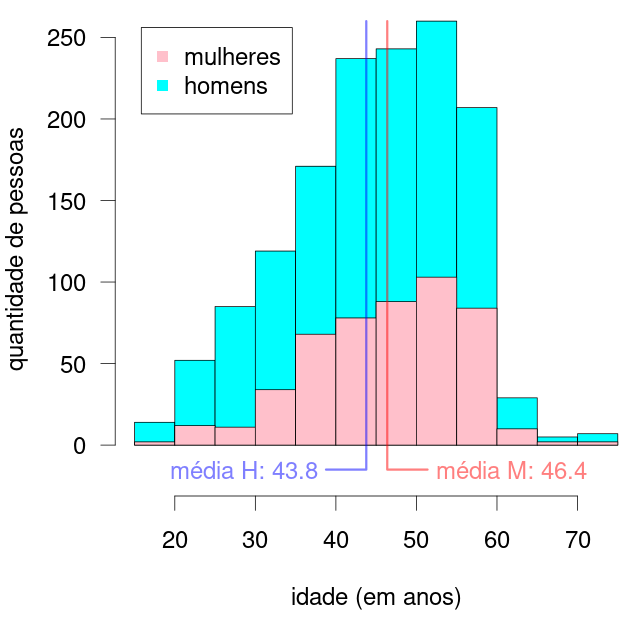
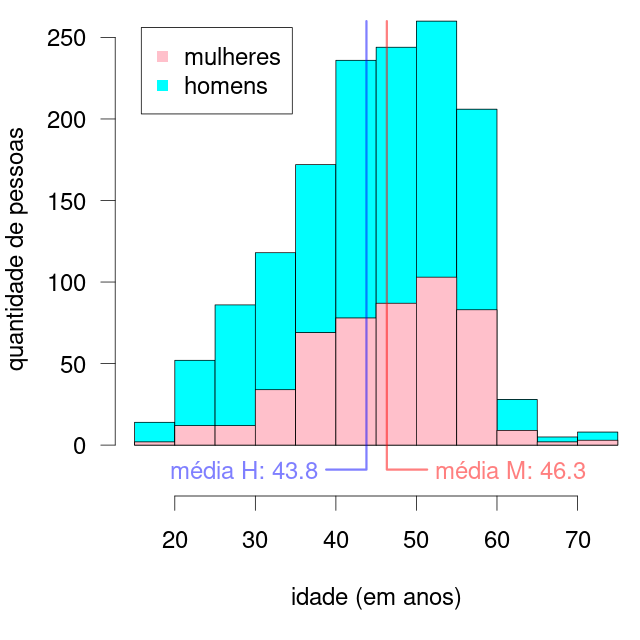
Update data and results for new listing from SEAPE-DF

diff --git a/README.md b/README.md
@@ -6,7 +6,7 @@
 Este repositório contém os dados publicados pela Secretaria de Estado de Administração Penitenciária do Distrito Federal (SEAPE-DF), assim que o programa em R para análise demográfica dos mesmos.
 
 A lista de pessoas presas nos atos terroristas na Praça dos Três Poderes é atualizada frequentemente 
-na [ṕagina da SEAPE-DF](https://seape.df.gov.br/prisoes-dos-atentados-bsb/), contendo os nomes completos, as datas de nascimento e o estado de origem das pessoas.
+na [pagina da SEAPE-DF](https://seape.df.gov.br/prisoes-dos-atentados-bsb/), contendo os nomes completos, as datas de nascimento e o estado de origem das pessoas.
 
 
 ## Análise
@@ -14,7 +14,7 @@ na [ṕagina da SEAPE-DF](https://seape.df.gov.br/prisoes-dos-atentados-bsb/), c
 
 ### Gênero
 
-A [lista atual](presos.csv), contém 1429 nomes. Esta lista não corresponde à ultima listagem disponibilizada pela SEAPE, que contém 1298 nomes, na listagem publicada em 17 de fevereiro de 2023. Todos os nomes que figuravam nas listas previamente publicadas foram mantidos. Destas 1429 pessoas, 494 são mulheres e 935 são homens.
+A [lista atual](presos.csv), contém 1429 nomes. Esta lista não corresponde à ultima listagem disponibilizada pela SEAPE, que contém 935 nomes, na listagem publicada em 22 de março de 2023. Todos os nomes que figuravam nas listas previamente publicadas foram mantidos. Destas 1429 pessoas, 494 são mulheres e 935 são homens.
 
 
 ### Idades
@@ -23,45 +23,45 @@ A distribuição de idades é mostrada no gráfico abaixo, com as pessoas agrupa
 
 ![figure](histograma-idades.png)
 
-A idade mínima é de 18,0 anos e a máxima de 74,7 anos. 66,3% das pessoas têm entre 40 e 60 anos e 35,2% deles têm entre 45 e 55 anos. Está claro que o grosso do contingente é formado por pessoas de meia idade.
+A idade mínima é de 18,0 anos e a máxima de 74,7 anos. 66,2% das pessoas têm entre 40 e 60 anos e 35,3% deles têm entre 45 e 55 anos. Está claro que o grosso do contingente é formado por pessoas de meia idade.
 
-A mediana de idade das mulheres é de 47,9 anos e a dos homens de 44,8 anos. A média de idade das mulheres é de 46,4 anos e a dos homens é de 43,8 anos. Esta diferença de idade de 2,6 anos entre homens e mulheres é estatisticamente significativa (_t_[1122.2] = 4.70, _p_ < 0.001).
+A mediana de idade das mulheres é de 47,8 anos e a dos homens de 44,9 anos. A média de idade das mulheres é de 46,3 anos e a dos homens é de 43,8 anos. Esta diferença de idade de 2,5 anos entre homens e mulheres é estatisticamente significativa (_t_[1114.6] = 4.55, _p_ < 0.001).
 
 Cabe observar que a faixa de idade com maior representatividade entre as mulheres é entre 50 e 55 anos.
 
 
 ## Procedência
 
-O número de pessoas por estado está indicado na tabela abaixo (a informação do estado de origem está ausente para 43 pessoas):
+O número de pessoas por estado está indicado na tabela abaixo (a informação do estado de origem está ausente para 38 pessoas):
 
 |estado|número de pessoas presas|porcentagem do total|presos/população|
 |-|-|-|-|
-|SP|276|19.9%|6.00|
-|MG|208|15.0%|10.03|
-|PR|132|9.5%|11.15|
-|RS|106|7.6%|9.56|
-|MT|93|6.7%|24.58|
-|SC|86|6.2%|11.08|
-|BA|69|5.0%|4.71|
-|DF|56|4.0%|19.16|
-|GO|55|4.0%|7.91|
-|RO|41|3.0%|25.37|
-|MS|40|2.9%|14.12|
-|PA|39|2.8%|4.62|
-|RJ|32|2.3%|1.93|
-|CE|26|1.9%|2.91|
-|ES|20|1.4%|4.87|
-|TO|20|1.4%|12.62|
-|PB|16|1.2%|3.97|
-|MA|15|1.1%|2.21|
-|PE|14|1.0%|1.55|
+|SP|273|19.6%|5.93|
+|MG|201|14.5%|9.69|
+|PR|134|9.6%|11.32|
+|MT|104|7.5%|27.48|
+|RS|101|7.3%|9.11|
+|SC|87|6.3%|11.21|
+|DF|79|5.7%|27.02|
+|BA|67|4.8%|4.57|
+|GO|50|3.6%|7.19|
+|PA|42|3.0%|4.97|
+|RO|42|3.0%|25.98|
+|RJ|34|2.4%|2.05|
+|MS|32|2.3%|11.29|
+|CE|25|1.8%|2.80|
+|ES|19|1.4%|4.62|
+|TO|19|1.4%|11.99|
+|PB|15|1.1%|3.72|
 |AL|13|0.9%|4.16|
-|RN|10|0.7%|3.03|
+|MA|12|0.9%|1.76|
+|PE|12|0.9%|1.33|
+|RN|11|0.8%|3.33|
 |PI|8|0.6%|2.45|
-|AM|5|0.4%|1.27|
+|AM|6|0.4%|1.52|
 |AC|3|0.2%|3.62|
-|SE|2|0.1%|0.90|
 |RR|1|0.1%|1.58|
+|SE|1|0.1%|0.45|
 
 O número de presos por estado, dividido pela
 [população](populacao-2022.csv), está relacionado à [porcentagem de votos em
@@ -71,9 +71,9 @@ Jair Bolsonaro no segundo turno da eleição presidencial de
 ![figure](votos-bolsonaro-numero-presos.png)
 
 Neste gráfico, cada estado está representado pela sua sigla.
-Foram incluídos na análise os estados que apresentam número de presos maior do que 5, para efeitos de confiabilidade da análise. A população de cada estado corresponde àquela publicada pelo IBGS na [prévia do censo de 2022](https://ftp.ibge.gov.br/Censos/Censo_Demografico_2022/Previa_da_Populacao/POP2022_Municipios.pdf). Note que o eixo vertical do gráfico (número de presos) está em escala logarítmica, o que é adequado para variáveis de contagem. A correlação entre as duas variáveis é significativamente diferente de zero (_r_ = 0.76, _t_[20] = 5.31, _p_ < 0.001). A linha de regressão entre as duas variáveis está indicada em vermelho no gráfico.
+Foram incluídos na análise os estados que apresentam número de presos maior do que 5, para efeitos de confiabilidade da análise. A população de cada estado corresponde àquela publicada pelo IBGS na [prévia do censo de 2022](https://ftp.ibge.gov.br/Censos/Censo_Demografico_2022/Previa_da_Populacao/POP2022_Municipios.pdf). Note que o eixo vertical do gráfico (número de presos) está em escala logarítmica, o que é adequado para variáveis de contagem. A correlação entre as duas variáveis é significativamente diferente de zero (_r_ = 0.72, _t_[21] = 4.75, _p_ < 0.001). A linha de regressão entre as duas variáveis está indicada em vermelho no gráfico.
 
-Note que a correlação acima é feita entre o resultado da eleição e o número de presos **dividido pela população do estado** e não o número de presos simplesmente. A razão para esta escolha é que o número de presos é correlacionada à população de cada estado (_r_ = 0.84, _t_[20] = 6.86, _p_ < 0.001). Isto faz com que a população do estado se torne uma variável de confusão no estudo. A normalização do número de presos pela população do estado minimiza este problema.
+Note que a correlação acima é feita entre o resultado da eleição e o número de presos **dividido pela população do estado** e não o número de presos simplesmente. A razão para esta escolha é que o número de presos é correlacionada à população de cada estado (_r_ = 0.82, _t_[21] = 6.62, _p_ < 0.001). Isto faz com que a população do estado se torne uma variável de confusão no estudo. A normalização do número de presos pela população do estado minimiza este problema.
 
 ### Código para esta análise
 
